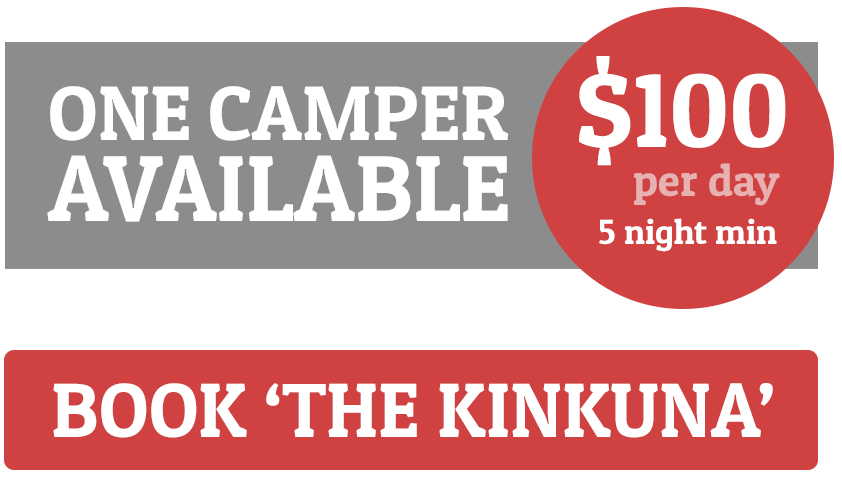
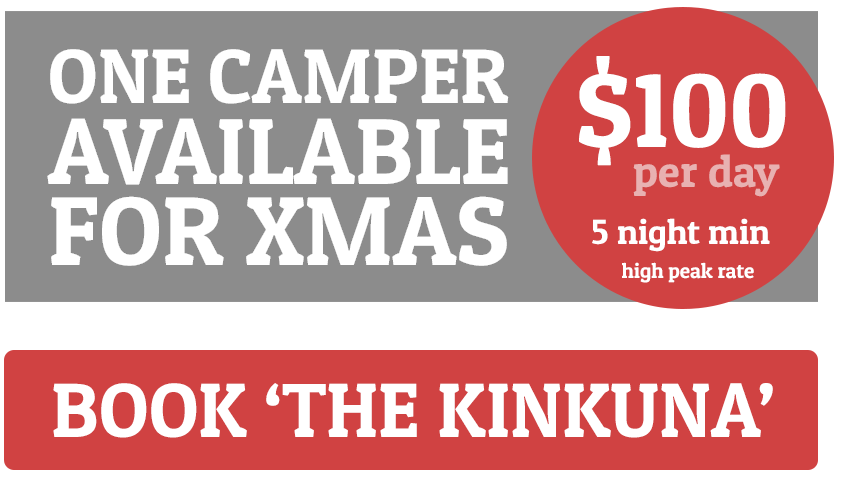
added rates page and new slide text

Changed region(s): [[0.0, 0.0, 0.772, 0.6508], [0.7102, 0.3099, 0.9881, 0.6508], [0.8646, 0.0, 0.9881, 0.093]]

diff --git a/public_html/css/style.css b/public_html/css/style.css
@@ -715,3 +715,18 @@ div.location h2 {
 div.location a {
     color: #fff;
 }
+
+table.rateTable {
+    width: 100%;
+}
+
+table.rateTable td, table.rateTable th {
+    padding: 10px;
+    border: 1px solid #ccc;
+}
+
+table.rateTable th {
+    font-weight: bold;
+    background: #f4f4f4;
+    vertical-align: middle;
+}

diff --git a/laravel/app/views/pages/rates.blade.php b/laravel/app/views/pages/rates.blade.php
@@ -1,0 +1,48 @@
+@extends('layouts.main')
+
+@section('title')
+Camper Trailer Hire Brisbane - Hire My Camper Trailer - Our Rates
+@endsection
+
+@section('description')
+See our rates for our Camper Trailers, 'The Kinkuna', 'Airlie I' and 'Airle II'. Our rates are competitive and
+flexible. If you have any questions please don't hesitate to contact us.
+@endsection
+
+@section('content')
+<div class="container">
+    <div class="primary">
+        <h1>Hire My Camper Trailer - Rates</h1>
+        <p>See our rates for our Camper Trailers, 'The Kinkuna', 'Airlie I' and 'Airle II'. Our rates are competitive and
+            flexible. If you have any questions please don't hesitate to <a href="/contact">contact us.</a></p>
+
+        <table class="rateTable">
+            <tr>
+                <th>Rate Name</th>
+                <th>Dates</th>
+                <th>Cost Per Day</th>
+            </tr>
+            <tr>
+                <td>High Peak</td>
+                <td>13th December - 27th January | Easter Holidays | September School Holidays</td>
+                <td>$100 per day, 5 night minimum</td>
+            </tr>
+            <tr>
+                <td>Holiday Peak</td>
+                <td>All QLD school holidays except those listed above in 'High Peak'</td>
+                <td>$80 day, 5 day minimum</td>
+            </tr>
+            <tr>
+                <td>Off Peak</td>
+                <td>Any times not listed above</td>
+                <td>$80 per day, 3 day minimum</td>
+            </tr>
+        </table>
+    </div>
+
+    <div class="secondary">
+        @include('pages.sidebar.camperSidebar')
+    </div>
+    <div style="clear:both;"></div>
+</div><!-- end container -->
+@endsection

diff --git a/laravel/app/routes.php b/laravel/app/routes.php
@@ -4,6 +4,7 @@
 Route::get('/', ['uses' => 'PagesController@home']);
 Route::get('about', ['uses' => 'PagesController@about']);
 Route::get('contact', ['uses' => 'PagesController@contact']);
+Route::get('rates', ['uses' => 'PagesController@rates']);
 Route::get('login', ['uses' => 'SessionsController@showLogin']);
 Route::post('login', ['uses' => 'SessionsController@login']);
 Route::get('logout', function(){

diff --git a/laravel/app/views/layouts/main.blade.php b/laravel/app/views/layouts/main.blade.php
@@ -82,6 +82,7 @@
         <ul>
             <li><a href="/">Home</a></li>
             <li><a href="/about">About us</a></li>
+            <li><a href="/rates">Our Rates</a></li>
             <li><a href="/products">Our Campers</a></li>
             <li><a href="/contact">Contact us</a></li>
         </ul>

diff --git a/laravel/app/controllers/PagesController.php b/laravel/app/controllers/PagesController.php
@@ -28,4 +28,9 @@ class PagesController extends \BaseController {
         return View::make('pages.contact');
     }
 
+    public function rates()
+    {
+        return View::make('pages.rates');
+    }
+
 }
